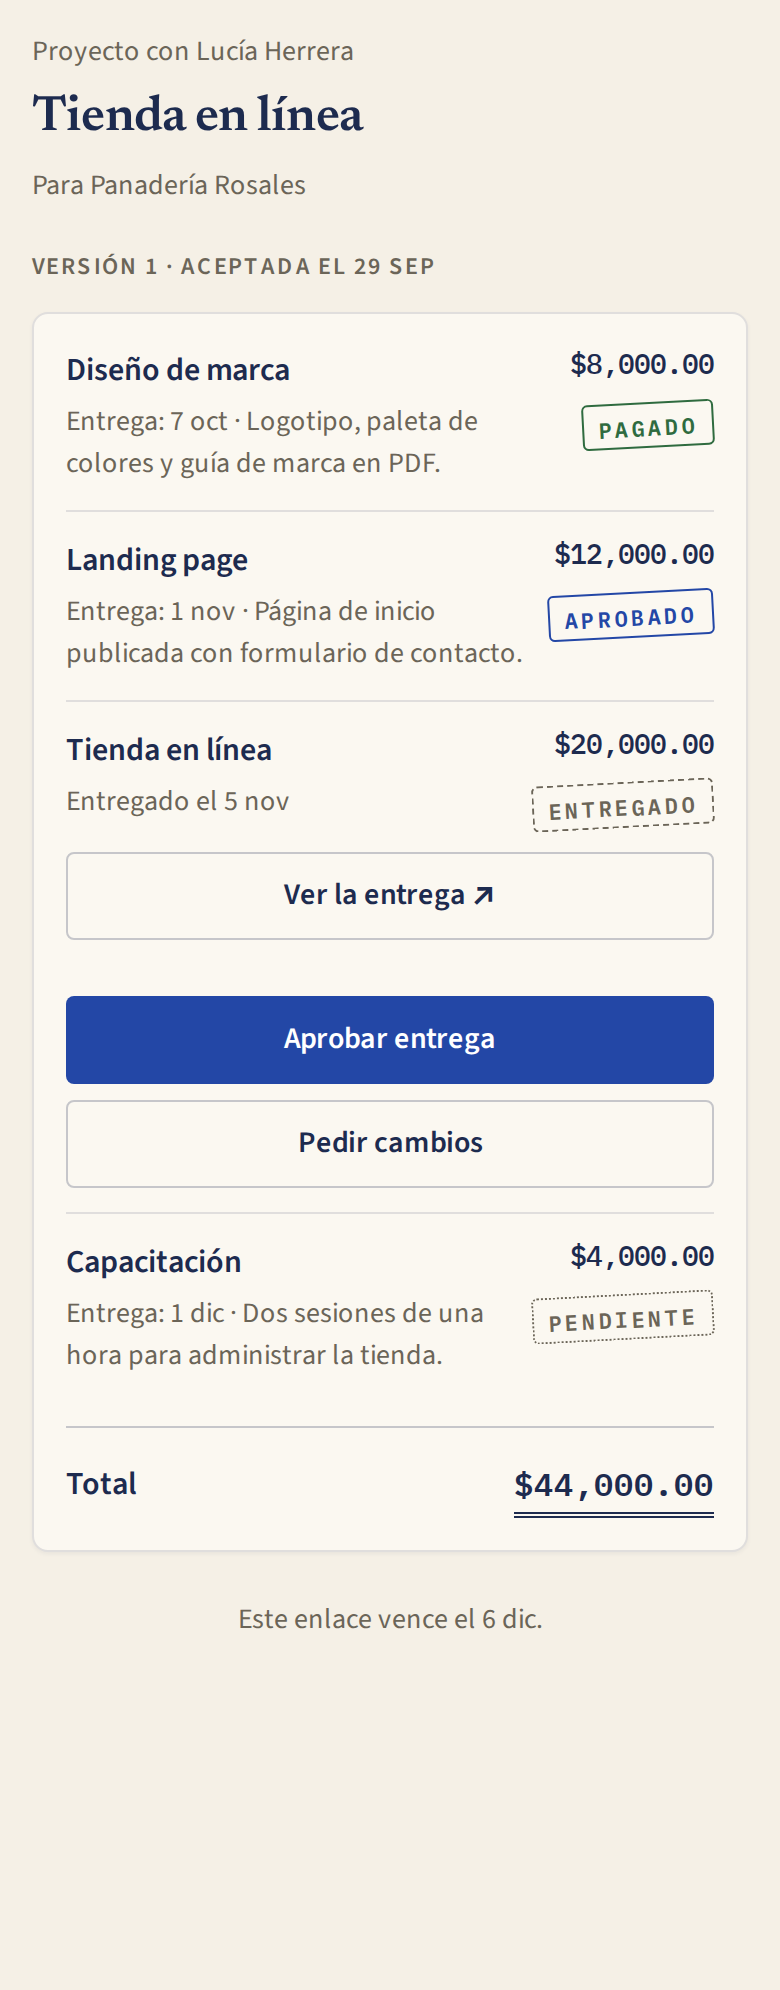
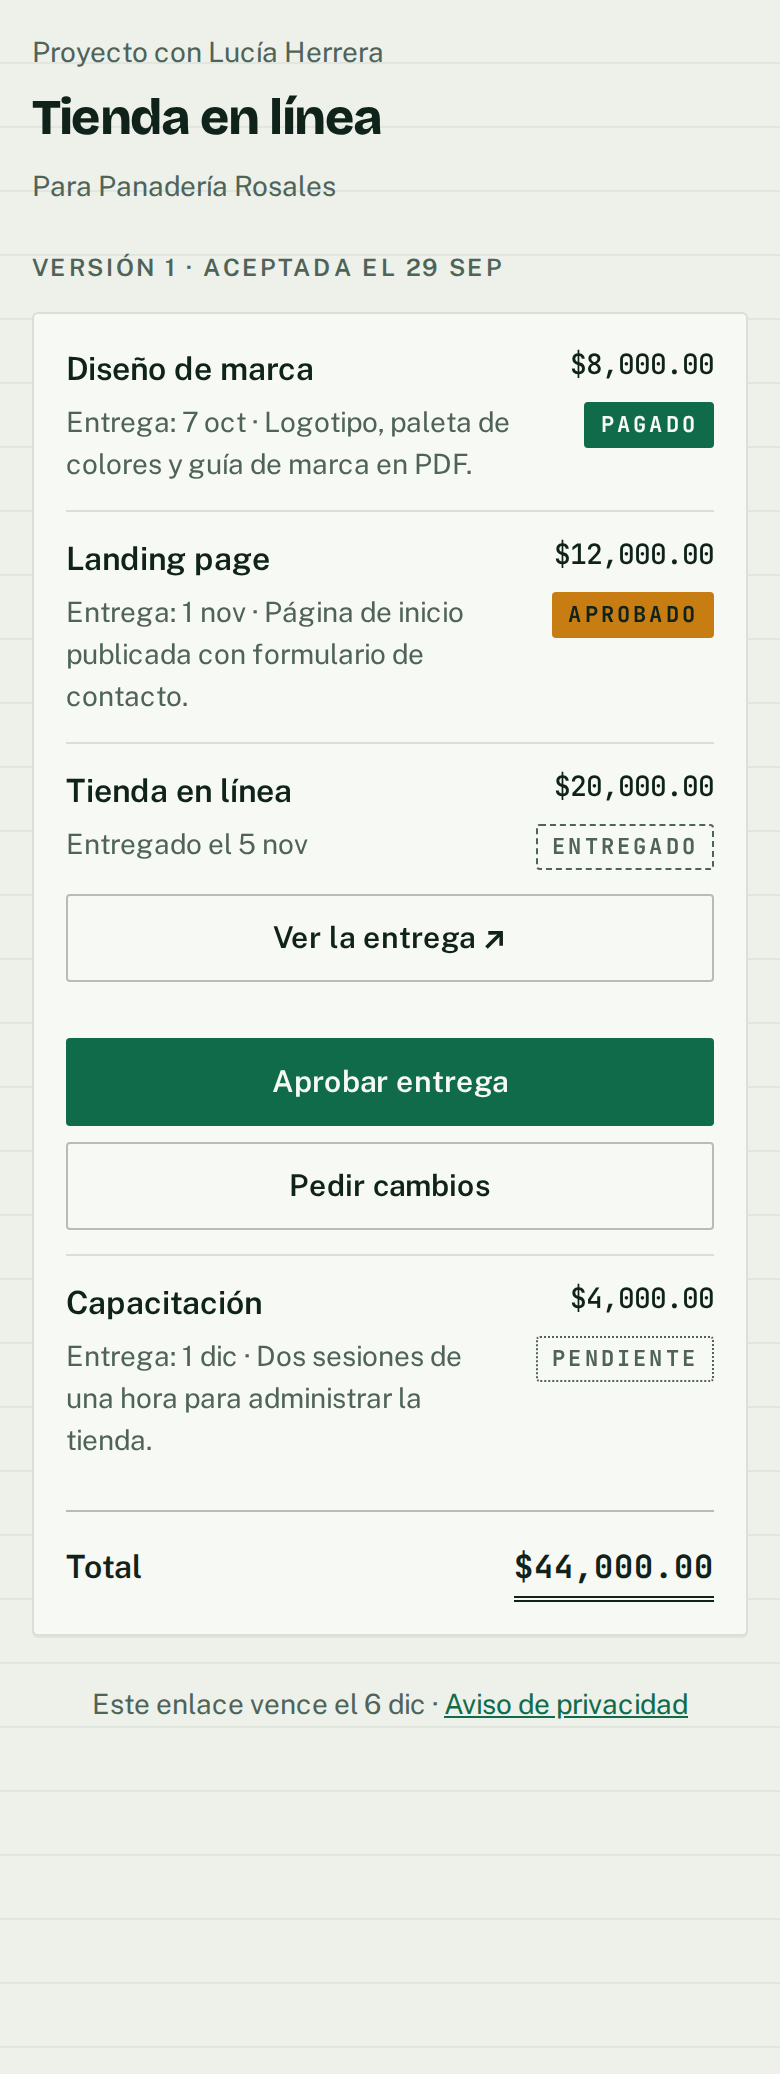
Ajustes de celular (barra y gráfica a escala real), capturas y README actualizados

diff --git a/web/src/componentes/GraficaCobros.tsx b/web/src/componentes/GraficaCobros.tsx
@@ -1,13 +1,11 @@
-import { useState } from 'react'
+import { useEffect, useRef, useState } from 'react'
 import type { MesDeCobro } from '../api/cobros'
 import { dinero } from '../formato'
 
 // Acordado vs. cobrado, acumulados por mes, como líneas escalonadas: el saldo cambia de golpe al vencer o al pagar.
 // Un solo eje (MXN). Leyenda + etiquetas directas al final; tooltip por mes; tabla equivalente para lectores de pantalla.
 
-const ANCHO = 640
 const ALTO = 220
-const M = { arriba: 16, derecha: 120, abajo: 28, izquierda: 56 }
 const corto = new Intl.NumberFormat('es-MX', { style: 'currency', currency: 'MXN', notation: 'compact', maximumFractionDigits: 1 })
 const nombreMes = new Intl.DateTimeFormat('es-MX', { month: 'short' })
 const mesLargo = new Intl.DateTimeFormat('es-MX', { month: 'long', year: 'numeric' })
@@ -25,6 +23,17 @@ function tope(maximo: number) {
 
 export function GraficaCobros({ historial }: { historial: MesDeCobro[] }) {
   const [activo, setActivo] = useState<number | null>(null)
+  // Se dibuja al ancho real del contenedor (escala 1:1): en el celular los textos no se encogen.
+  const lienzo = useRef<HTMLDivElement>(null)
+  const [ANCHO, setAncho] = useState(640)
+  useEffect(() => {
+    const nodo = lienzo.current
+    if (!nodo) return
+    const observador = new ResizeObserver(([e]) => setAncho(Math.max(300, Math.round(e.contentRect.width))))
+    observador.observe(nodo)
+    return () => observador.disconnect()
+  }, [])
+  const M = { arriba: 16, derecha: ANCHO < 480 ? 76 : 120, abajo: 28, izquierda: 52 }
   const y0 = tope(Math.max(...historial.flatMap((m) => [m.acordado, m.cobrado])))
   const anchoPlot = ANCHO - M.izquierda - M.derecha
   const altoPlot = ALTO - M.arriba - M.abajo
@@ -47,7 +56,7 @@ export function GraficaCobros({ historial }: { historial: MesDeCobro[] }) {
         <span><i className="serie-acordado" /> Acordado que ya vencía</span>
         <span><i className="serie-cobrado" /> Cobrado</span>
       </div>
-      <div className="lienzo-grafica" onPointerLeave={() => setActivo(null)}>
+      <div className="lienzo-grafica" ref={lienzo} onPointerLeave={() => setActivo(null)}>
         <svg viewBox={`0 0 ${ANCHO} ${ALTO}`} role="img" aria-label={`Acordado y cobrado acumulados en los últimos ${historial.length} meses. Al día de hoy: acordado ${dinero(ultimo.acordado)}, cobrado ${dinero(ultimo.cobrado)}.`}>
           {lineas.map((v) => (
             <g key={v}>

diff --git a/web/src/index.css b/web/src/index.css
@@ -1711,3 +1711,14 @@ i.serie-acordado {
     animation: none;
   }
 }
+
+/* Celular angosto: solo el mojón en la barra, para que quepan las 3 secciones y "Salir" */
+@media (max-width: 420px) {
+  .barra {
+    gap: 10px;
+  }
+
+  .barra .logo-texto {
+    display: none;
+  }
+}

diff --git a/docs/proyecto/08-mejoras-ui.md b/docs/proyecto/08-mejoras-ui.md
@@ -66,3 +66,14 @@ Max notó que, tras las mejoras de comportamiento, Hito se veía igual. Se propu
 - `manifest.webmanifest` (`standalone`, inicia en `/cobros`, colores del papel), íconos de 192 y 512 px, uno adaptable (maskable) con zona segura y `apple-touch-icon` para "Agregar a inicio" en iOS. Generados con Playwright desde el SVG del logo.
 - **Sin service worker:** los criterios de instalación de Chrome (web.dev, consultado el 2026-11-06) piden manifest e íconos, no service worker. Agregarlo traería caché de versiones viejas sin necesidad.
 - **Límites:** es la misma web instalada, no una app nativa (la app móvil sigue fuera de alcance), y sin conexión no funciona.
+
+**Ajustes de celular y README** (rama `ui/pwa`)
+- A 390 px el logo con mojón y palabra empujaba "Salir" fuera de la pantalla; en pantallas de 420 px o menos la barra muestra solo el mojón.
+- La gráfica medía 640 unidades y se encogía en el celular (textos de unos 6 px); ahora mide su contenedor con `ResizeObserver` y dibuja a escala 1:1.
+- Capturas del README regeneradas con el diseño nuevo; el README menciona la gráfica, la PWA y 53 pruebas unitarias.
+
+## Video promocional (2026-11-06)
+
+- 36.7 s, 1920×1080, H.264 sin audio (sin música para no arriesgar licencias; LinkedIn reproduce en silencio). Archivo y portada en `~/Desktop/Proyectos/hito-promo/` (fuera del repositorio: es difusión, no producto).
+- Se grabó la app real con Playwright dentro de un escenario con marcos de navegador y celular: landing → demo con un clic y cifra que sube → compartir el enlace → el cliente aprueba en el celular → pago con sello que se estampa → cierre con la URL. Lo reproducen `escenario.html` y `grabar.mjs` en esa carpeta.
+- **Hallazgos al grabar:** el escenario debe servirse desde el mismo origen que la app (con `file://` Chrome frenaba el iframe), y los botones de un `<dialog>` modal dentro de un iframe escalado se pulsan con un clic del DOM.

diff --git a/README.md b/README.md
@@ -16,6 +16,7 @@ El freelancer manda el alcance por WhatsApp, el cliente dice "sí" y semanas des
 - El freelancer **registra los pagos** y su panel muestra lo **por cobrar**, lo **aprobado sin pagar** y lo **vencido**.
 - Todo queda en un **historial** que no se puede editar ni borrar.
 - Los proyectos se **buscan y filtran** por nombre, cliente y estado, y su resumen se **exporta a PDF**.
+- El panel grafica lo **acordado contra lo cobrado** mes a mes, y la app se **instala en el celular** como PWA.
 
 ## Capturas
 
@@ -68,7 +69,7 @@ flowchart LR
 
 | Tipo | Cantidad | Qué cubre |
 |---|---|---|
-| Unitarias (xUnit) | 51 | Transiciones de estado, cálculo de totales, reglas de pago, panel de cobros |
+| Unitarias (xUnit) | 53 | Transiciones de estado, cálculo de totales, reglas de pago, panel de cobros e historial mensual |
 | Integración (Testcontainers) | 50 | API con PostgreSQL real, incluido el aislamiento entre usuarios y pagos simultáneos |
 | E2E (Playwright) | 1 | El flujo crítico completo, con freelancer y cliente en navegadores separados |
 | Kubernetes (kind) | 1 | Rollout con sondas live/ready, migraciones y llamada real a la API |
